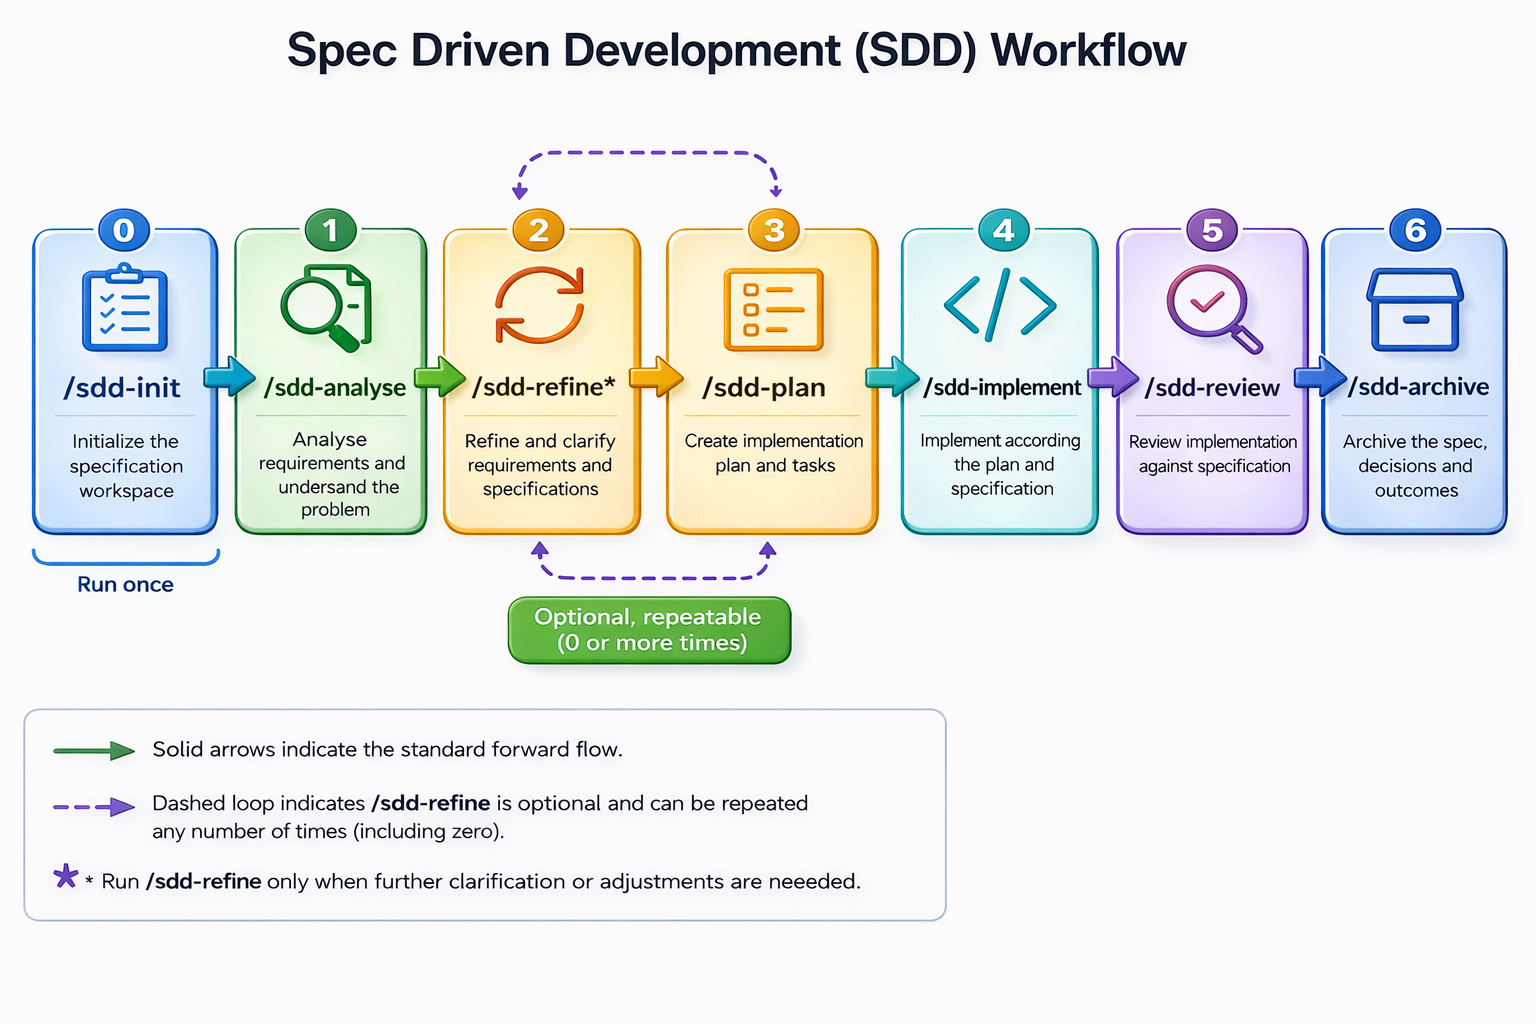
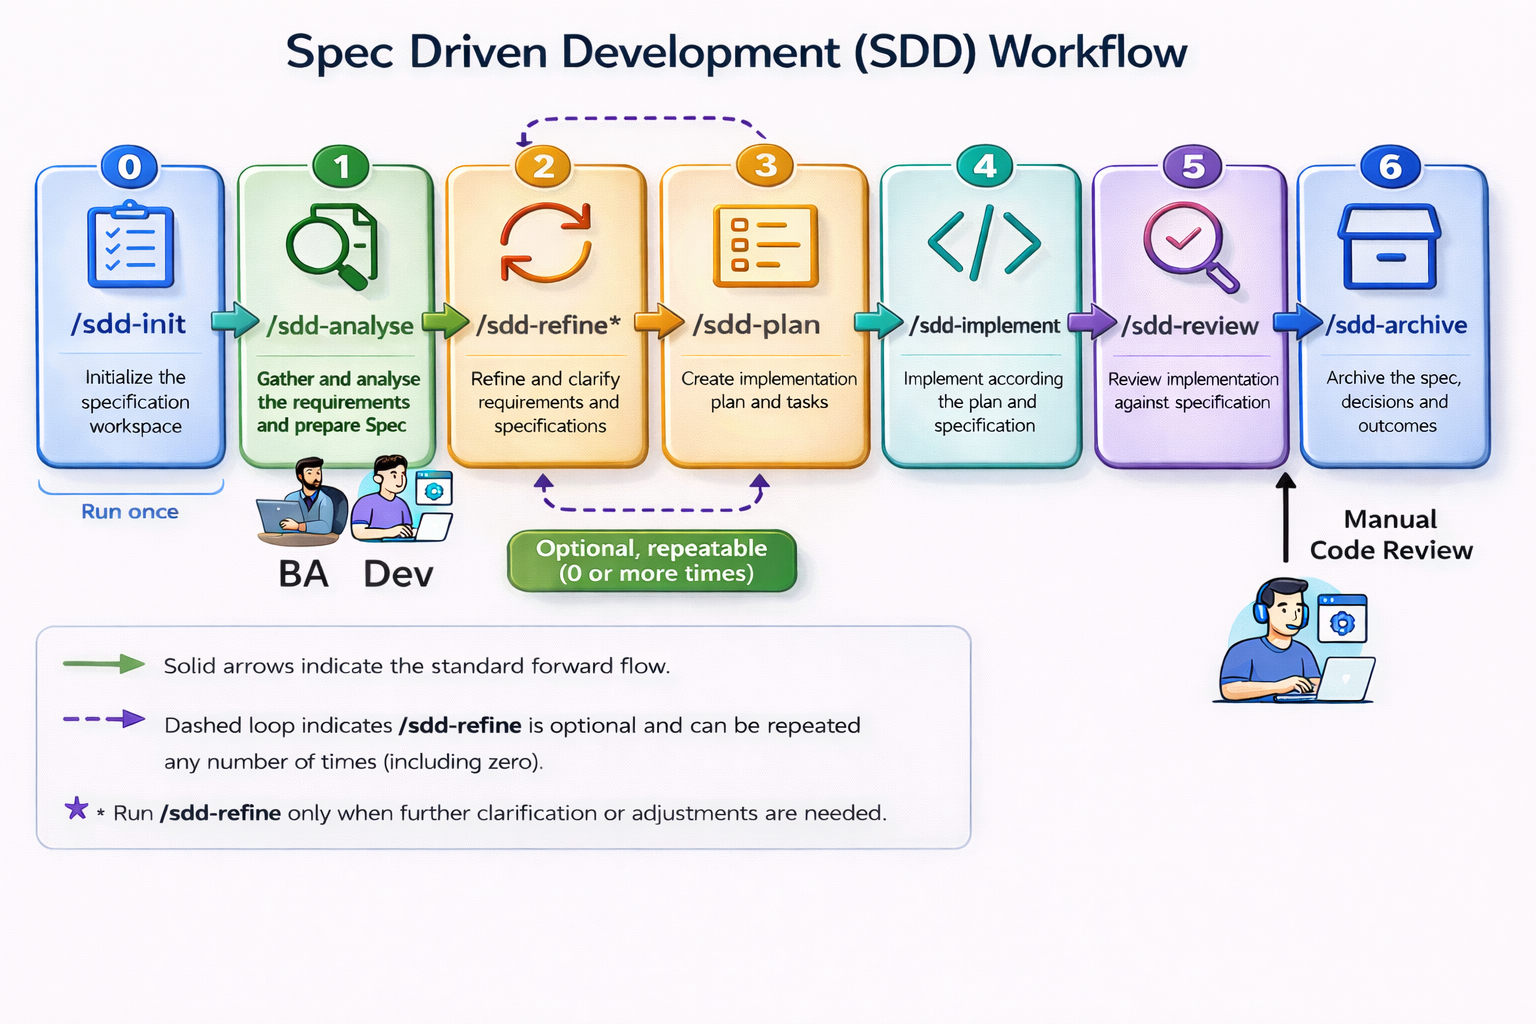
Expand README with target audience guidance for SDD workflow usage (solo developers vs. enterprise teams) and clarify feature spec handoff process.

diff --git a/README.md b/README.md
@@ -32,6 +32,18 @@ At any point you can inspect or manually edit these files before continuing.
 
 ---
 
+## Who is this for?
+
+This SDD workflow is useful across different working contexts. The workflow covers **feature development only** — from idea to reviewed, archived code. Deployment is out of scope.
+
+**Solo developers and indie hackers** working on SaaS products typically own both the requirements and the code. They can use the full pipeline end-to-end: `/sdd-analyse` to turn an idea into a spec, `/sdd-plan` to produce an implementation plan, and `/sdd-implement` through `/sdd-archive` to ship and document it.
+
+**Enterprise teams** usually separate requirements from implementation. A Business Analyst talking to stakeholders can use `/sdd-analyse` and `/sdd-refine` to produce a structured, unambiguous `feature.md` spec — then hand it to the development team, who pick up from `/sdd-plan` onwards.
+
+In both cases, the structured spec in `feature.md` is the handoff artifact. The earlier in the workflow you invest in it, the less rework happens downstream.
+
+---
+
 ## Prerequisites
 
 - [Claude Code](https://claude.ai/code) or [Codex](https://openai.com/codex/) installed and running in your project
